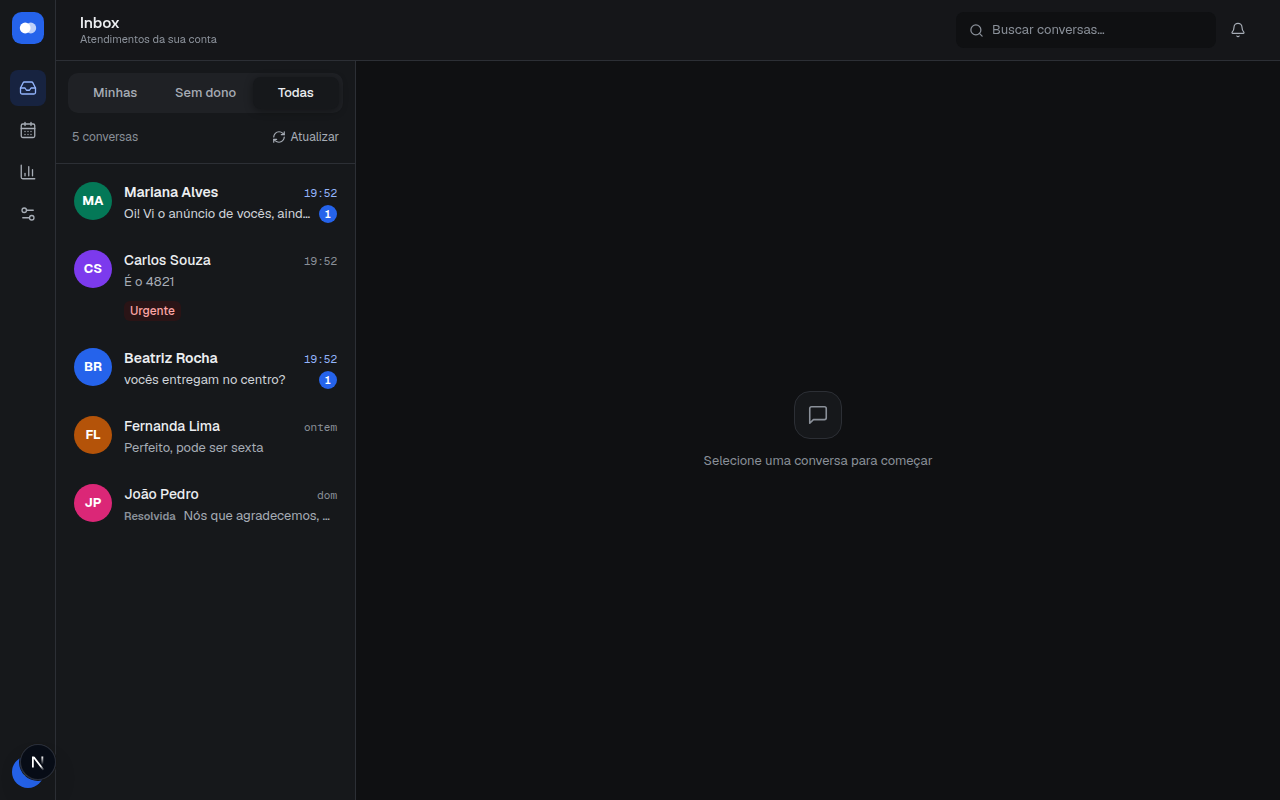
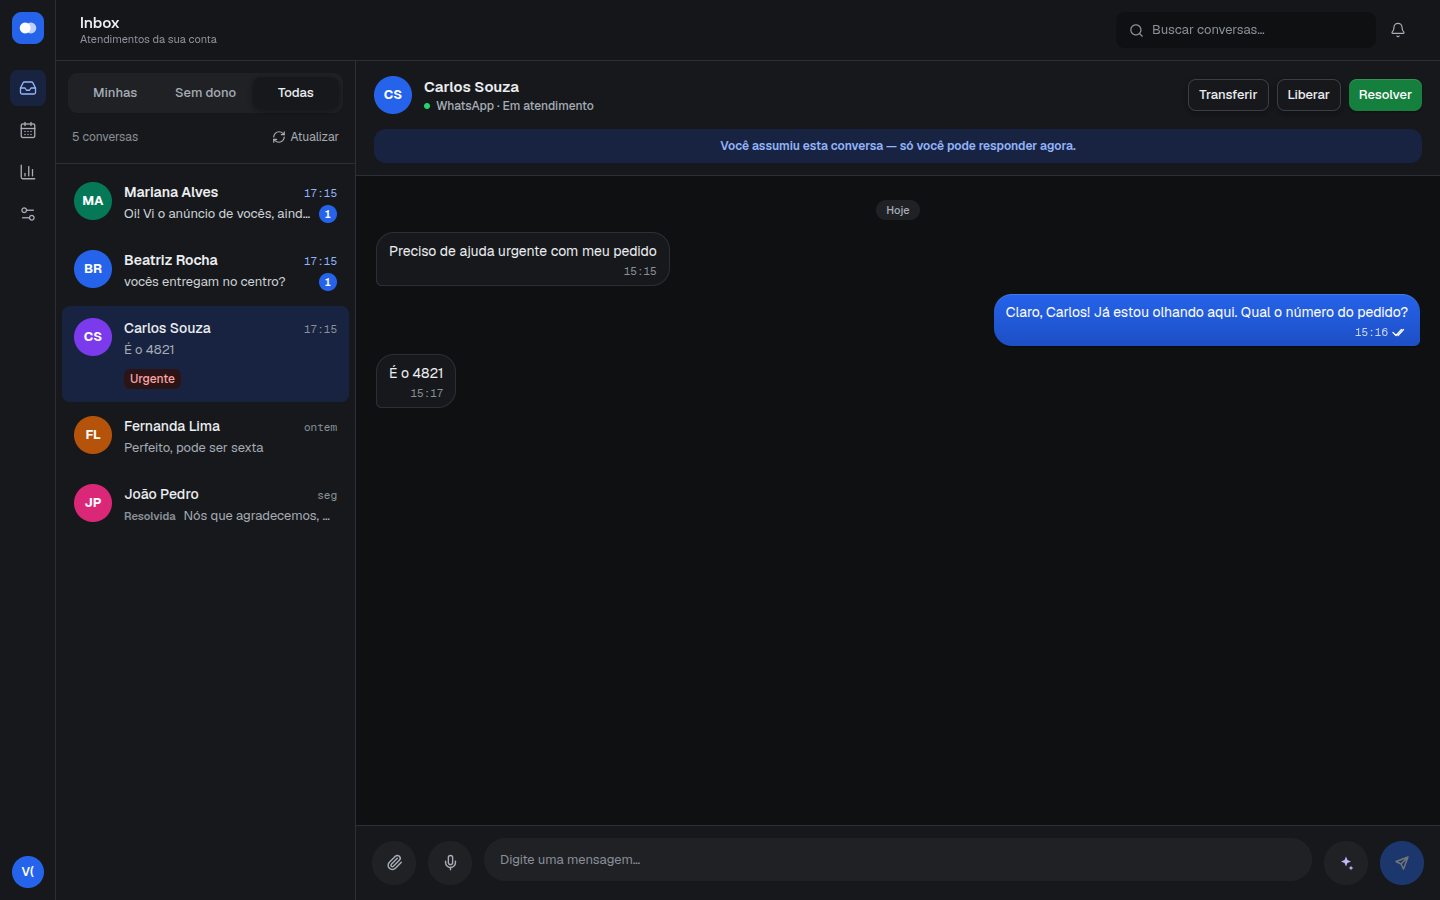
docs - readme para portfolio

diff --git a/README.md b/README.md
@@ -1,166 +1,175 @@
 # Otto
 
-Inbox de WhatsApp com múltiplos atendentes, agente de IA e transferência para humano.
-O projeto inclui um exemplo fictício de salão de festas: agenda por data, pré-reserva,
-confirmação pela equipe e galeria do espaço.
+Inbox de WhatsApp multiatendente com agente de IA e roteiro sem LLM, aplicado a salões de festas.
 
-O agente consulta conhecimento e agenda; o roteiro determinístico atende sem LLM.
-Ambos usam a mesma ingestão, fila de atendimento e persistência. O copilot sugere uma
-resposta para o atendente e nunca envia sozinho.
+[![Validation](https://github.com/thisdev-davi/otto-salao-de-festas/actions/workflows/ci.yml/badge.svg)](https://github.com/thisdev-davi/otto-salao-de-festas/actions/workflows/ci.yml)
+![Cobertura do backend](https://img.shields.io/badge/cobertura-80%25-brightgreen)
+![Python](https://img.shields.io/badge/python-3.12-blue)
+![Licença](https://img.shields.io/badge/licen%C3%A7a-MIT-lightgrey)
 
-## Executar
+Pequenos negócios atendem pelo WhatsApp com duas ou três pessoas no mesmo número. Nesse cenário, conversas se perdem, dois atendentes respondem o mesmo cliente e o preço que o bot passa não bate com a agenda. O Otto põe a equipe numa inbox compartilhada e coloca na frente um atendimento automático que **nunca inventa preço**: valor e disponibilidade saem de uma agenda transacional, o bot só **segura** uma data, e quem confirma a reserva é sempre um humano.
 
-Precisa de Python 3.12, Node.js 22, Docker Compose e `uv` ou `pip`.
-
-```sh
-python3 -m venv .venv
-. .venv/bin/activate
-pip install --require-hashes -r requirements-dev.lock
-cp .env.example .env
-cp frontend/.env.local.example frontend/.env.local
-# Preencha SECRET_KEY e EVOLUTION_API_KEY com segredos próprios.
-cd frontend
-npm ci
-cd ..
-./dev.sh
-```
-
-Abra [localhost:3002](http://localhost:3002). A API usa a porta 8001,
-PostgreSQL 5437 e Redis 6382. `dev.sh` aplica as migrations e inicia API, worker e frontend.
-Os exemplos de ambiente usam essas mesmas portas.
-
-Para criar uma conta, no ambiente virtual:
-
-```sh
-python scripts/criar_conta.py --nome "Salão Exemplo" --email admin@example.com
-```
-
-O script gera a senha. Para explorar a interface com dados fictícios, sem parear WhatsApp:
-
-```sh
-python seed_test_account.py
-```
-
-Esse seed **recria a conta Otto Teste**, com login `teste@otto.com` e senha `teste1234`.
-Use somente no seu banco local de testes; ele deixa o bot desligado. As conversas
-preenchidas permitem explorar a interface, mas não simulam transporte WhatsApp.
-
-### WhatsApp e IA
-
-O WhatsApp real exige Evolution externo, pareamento e webhook público alcançável pela
-Evolution. Configure `EVOLUTION_URL`, `EVOLUTION_API_KEY` e `WEBHOOK_BASE_URL`.
-Para executar Evolution por Compose, informe uma imagem que você possa obter/construir:
-
-```sh
-EVOLUTION_IMAGE=seu-registry/evolution:sua-versao WITH_EVOLUTION=1 ./dev.sh
-```
-
-A antiga imagem `evolution-api-lid:2.2.3` era local e não é uma dependência baixável
-presumida. A interface pode ser explorada sem ela; envio e recebimento reais precisam
-do serviço configurado.
-
-`LLM_PROVIDER=stub` permite testar o contrato de triagem sem chamadas pagas. O stub
-não substitui o transporte WhatsApp nem demonstra a qualidade semântica de um modelo.
-Agente, embeddings e transcrição usam as chaves e provedores configurados na conta.
+O atendimento automático tem dois "cérebros" que você troca no painel. O **agente de IA** conversa livremente, com persona, RAG e memória do cliente. O **roteiro** é determinístico, segue um fluxo desenhado em JSON e tem custo zero por conversa. Os dois entregam o mesmo contrato de decisão e passam pelo mesmo código de envio, encaminhamento e persistência.
 
 ![Inbox do Otto com dados fictícios](docs/images/inbox.png)
 
 ## Como funciona
 
+| Etapa | O que acontece | Onde |
+|---|---|---|
+| 1. Entrada | O webhook do WhatsApp chega com um segredo **por conexão** na URL; é ele que decide o tenant, nunca o corpo | `api/webhooks.py`, `services/channels.py` |
+| 2. Ingestão | A mensagem é gravada de forma idempotente e sai do request para o Celery | `services/ingestion.py`, `tasks/` |
+| 3. Decisão | Agente de IA **ou** roteiro, conforme o modo do tenant, devolvendo a mesma estrutura | `ai/llm.py`, `flow/engine.py` |
+| 4. Agenda | Preço e disponibilidade vêm de `salao_agenda.resolver`, a única fonte de verdade | `services/salao_agenda.py` |
+| 5. Ação | O bot pode segurar uma data por 48 h (pré-reserva atômica) ou mandar a galeria | `services/salao_acoes.py` |
+| 6. Equipe | Handoff para a fila, captura por um atendente, aviso em tempo real por WebSocket | `services/assignment.py`, `api/ws.py` |
+| 7. Confirmação | Um humano confirma a reserva e, se quiser, avisa o cliente pelo WhatsApp | `services/salao_aviso.py` |
+
 ```text
-WhatsApp → adapter de canal → FastAPI → PostgreSQL
-                                ↓
+WhatsApp → adapter de canal → FastAPI → PostgreSQL ← Next.js (API + WebSocket)
+                                 ↓
                           Redis / Celery
-                                ↓
-                     fluxo ou agente de IA
-                                ↓
-                    ações de agenda / handoff
-                                ↓
-                      adapter → WhatsApp
-
-Next.js ← WebSocket / API ← PostgreSQL + mídia local ou S3 privado
+                                 ↓
+                 roteiro determinístico  |  agente de IA
+                                 ↓
+                 agenda (preço/data) · pré-reserva · handoff
+                                 ↓
+                         adapter → WhatsApp
 ```
 
-- Ingestão idempotente: reentregas não criam outra mensagem.
-- Captura, encaminhamento e reserva disputados no banco: duas requisições concorrentes
-  não ganham a mesma conversa ou data.
-- Preço e disponibilidade vêm da agenda transacional. O agente cria pré-reserva;
-  a confirmação é humana.
-- Dados coletados se acumulam e a persona define a condução. O bot continua ajudando
-  após encaminhar, até alguém assumir, respeitando os limites de uso.
-- RAG usa PostgreSQL/pgvector; falha de embedding permite busca textual. Fontes e
-  limites de relevância não garantem que uma resposta do modelo esteja correta.
-- Arquivos são servidos após autorização da aplicação. O bucket S3 permanece privado;
-  arquivos locais existentes continuam legíveis durante a migração.
+<table>
+  <tr>
+    <td><img src="docs/images/agenda.png" alt="Agenda com preço por data e reservas"></td>
+    <td><img src="docs/images/simulador.png" alt="Simulador do roteiro consultando a agenda real"></td>
+  </tr>
+  <tr>
+    <td align="center">Agenda: preço por data, bloqueios e reservas</td>
+    <td align="center">Simulador do roteiro: preço lido da agenda real, sem escrever nada</td>
+  </tr>
+</table>
 
-## Auditoria por conta
+## Decisões de engenharia
 
-Administradores acessam **Configurações → Auditoria**, com filtros, paginação e CSV.
-O contrato e os limites operacionais estão em [Auditoria](docs/AUDITORIA.md).
-A trilha registra ator, ação, recurso, resultado, motivo e correlação; alterações no
-banco e seu registro são atômicos. Intenção e resultado dos envios externos são
-separados: um timeout pode deixar resultado incerto, sem reenvio automático.
+As regras abaixo estão no [`CLAUDE.md`](CLAUDE.md) como invariantes do projeto, cada uma com o bug que ela previne.
 
-O registro não copia conversas, prompts ou segredos. IPs são mascarados; a retenção
-é de 180 dias, com limpeza coordenada enquanto a API estiver ativa e na inicialização.
-Esse prazo vale para a auditoria, não para conversas e anexos. O produto não permite
-editar ou apagar eventos; administradores diretos do banco continuam tendo poder
-sobre seus dados. Auditoria auxilia a rastreabilidade, sem certificar conformidade
-com a LGPD. Falhas de registro de leitura são sinalizadas no log técnico; alterações
-no banco falham se não puderem registrar auditoria.
+- **Concorrência resolvida no banco, não em Python.** Capturar uma conversa é um `UPDATE ... WHERE assigned_user_id IS NULL`. Segurar uma data é um `INSERT ... ON CONFLICT DO NOTHING` contra um índice único **parcial** (`status IN ('pre_reservada','confirmada')`), o que libera a data de reservas canceladas sem apagar o histórico. Os dois têm teste de corrida com `asyncio.gather`.
+- **O roteiro avança por transição disputada.** Não existe debounce: cada mensagem dispara um turno. O nó atual só avança com `UPDATE ... WHERE turno = :lido`, e quem perde a corrida não envia nada. Assim o cliente nunca recebe o menu duas vezes.
+- **Uma implementação só da disponibilidade.** O front lê `motivo`/`livre` prontos do backend e nunca deduz "livre" a partir do preço. Uma segunda implementação da regra, quando diverge, aparece como preço errado dito ao cliente.
+- **Adapter de canal isolado.** O código da Evolution API (WhatsApp não oficial, sujeito a ban) mora só em `channels/whatsapp.py`. Trocar de provider é trocar uma classe na factory.
+- **Multi-tenant por linha, com defesa em profundidade.** `tenant_id` entra em toda query, e o tenant de um evento externo vem de um segredo comparado com `hmac.compare_digest`.
+- **Mídia não confiável.** O `Content-Type` servido passa por uma allow-list, a URL de mídia é assinada e de curta duração (sem JWT na query), e o download de avatar só aceita HTTPS para IP público, como proteção contra SSRF.
+- **Sem agendador.** Pré-reserva vencida e conversa inativa são resolvidas de forma preguiçosa, na leitura. O projeto não tem `celery beat` de propósito.
+- **Auditoria transacional.** Toda alteração em tabela com `tenant_id` registra ator, ação e resultado por trigger, na mesma transação, sem copiar conversa nem segredo.
 
-## Conteúdo e operação
+## Avaliação do agente
 
-Persona, conhecimento e roteiro de exemplo vivem em `conteudo/`.
+Teste de unidade não prova que um LLM respeita a agenda. Para isso existe `evals/`: um conjunto de conversas fixas, rodado contra um modelo real e conferido por checagens determinísticas. As checagens cobrem quatro garantias:
+
+- valor citado sempre presente na agenda;
+- nenhuma confirmação de reserva;
+- pré-reserva só para data livre;
+- encaminhamento quando o cliente pede uma pessoa.
+
+Os cenários incluem prompt injection (pedido de "desconto aprovado pelo gerente" e mensagem que finge ser do sistema).
 
 ```sh
-python scripts/sincronizar_conteudo.py --check
-python scripts/sincronizar_conteudo.py --conta "Salão Exemplo" --dry-run
-python scripts/sincronizar_conteudo.py --conta "Salão Exemplo"
-scripts/otto.sh status
+python -m evals.rodar --provider anthropic --vezes 3   # gera evals/RESULTADO.md
 ```
 
-`scripts/otto.sh restart` **descarta a fila pendente** por convenção de desenvolvimento.
-Não use esse comando como estratégia de atualização em produção. No deploy, migrations
-são uma etapa explícita e workers devem encerrar com tratamento das tarefas pendentes.
+O prompt avaliado é o de produção. A persona e o conhecimento vêm de `conteudo/`, e o bloco de agenda sai do próprio `salao_contexto.bloco_agenda`.
 
-## Testes
+## Estrutura do repositório
 
-A suíte exige banco e Redis exclusivos, `ENV=test` e impede HTTP externo real.
-O passo a passo está em [Validação](docs/VALIDACAO.md).
+```text
+otto-salao-de-festas/
+├── app/
+│   ├── api/         rotas FastAPI finas, delegando aos services
+│   ├── services/    regras de negócio: captura, ingestão, agenda, bot, auditoria
+│   ├── flow/        motor do roteiro determinístico, validador e simulador
+│   ├── ai/          cliente LLM multi-provider, RAG (pgvector), transcrição
+│   ├── channels/    adapter do WhatsApp (único lugar que conhece a Evolution)
+│   ├── tasks/       workers Celery
+│   └── models/      SQLAlchemy
+├── alembic/         migrations (inclui triggers de auditoria e índices parciais)
+├── conteudo/        persona, base de conhecimento e roteiro do exemplo, versionados
+├── evals/           avaliação offline do agente
+├── frontend/        Next.js: inbox, agenda, fluxo, relatórios, configurações
+├── tests/           ~630 testes de backend com PostgreSQL e Redis reais
+└── docs/            produto, guias, deploy, validação e auditoria
+```
+
+## Tecnologias
+
+| Camada | Tecnologia |
+|---|---|
+| Backend | Python 3.12, FastAPI e SQLAlchemy async, ponta a ponta |
+| Workers | Celery e Redis (fila e pub/sub do tempo real) |
+| Banco | PostgreSQL 16 com pgvector, migrations com Alembic |
+| Frontend | Next.js 15, React 19, TypeScript estrito, Tailwind e Radix |
+| IA | Anthropic, Gemini e provedores compatíveis com OpenAI, além de embeddings e transcrição de áudio |
+| Canal | WhatsApp via Evolution API |
+| Qualidade | pytest com cobertura, ruff, ESLint, `node:test`, checagem de contraste WCAG e gitleaks |
+| CI | GitHub Actions: lint, migrations em banco vazio, testes, build do front e varredura de segredos |
+
+## Documentação
+
+| Documento | Conteúdo |
+|---|---|
+| [CLAUDE.md](CLAUDE.md) | invariantes de arquitetura e convenções, com o porquê de cada uma |
+| [Segurança](SEGURANCA.md) | laudo de segurança, correções e riscos aceitos |
+| [Projeto](docs/produto/OTTO_PROJETO.md) | visão de produto, escopo e roadmap |
+| [Plataforma](docs/produto/PLATAFORMA.md) | como derivar um sistema de outro nicho a partir da base |
+| [Produto e venda](docs/produto/PRODUTO-E-VENDA.md) | roteiro sem IA × agente com IA: o que cada um faz e quanto custa |
+| [Guia do fluxo](docs/guias/GUIA-FLUXO-SALAO.md) | como ler, alterar e publicar o roteiro |
+| [Guia da persona](docs/guias/GUIA-PERSONA-SALAO.md) e [Guia de conteúdo](docs/guias/GUIA-CONTEUDO-AGENTE.md) | como escrever persona e conhecimento para o agente |
+| [Auditoria](docs/AUDITORIA.md) | contrato da trilha de auditoria por conta |
+| [Validação](docs/VALIDACAO.md) | como rodar a suíte isolada |
+| [Deploy](docs/DEPLOY.md) | roteiro para Render, Neon e S3 (preparado, não executado) |
+
+## Rodar localmente
+
+Requisitos: Python 3.12, Node.js 22, Docker Compose e `uv` (ou `pip`).
 
 ```sh
-pytest -q
-ruff check .
-ruff format --check .
-cd frontend
-npm run check
-npm run build
+python -m venv .venv && . .venv/bin/activate
+pip install --require-hashes -r requirements-dev.lock
+cp .env.example .env                       # preencha SECRET_KEY e EVOLUTION_API_KEY
+cp frontend/.env.local.example frontend/.env.local
+(cd frontend && npm ci)
+./dev.sh                                   # Postgres, Redis, migrations, API, worker e front
 ```
 
-A CI instala dependências pelo lock, aplica migrations em PostgreSQL/pgvector
-isolado e verifica backend, tipos, tokens, contraste e build. Resultados locais
-medidos ficam em [Validação](docs/VALIDACAO.md), sem confundir testes automatizados
-com ensaio de WhatsApp ou deploy real.
+Abra [localhost:3002](http://localhost:3002). Para explorar a interface com dados fictícios, sem parear um WhatsApp, rode `python seed_test_account.py`. O seed **recria** a conta "Otto Teste" (login `teste@otto.com`, senha `teste1234`), então use só em banco local. Com `LLM_PROVIDER=stub`, o agente roda sem chamadas pagas.
 
-## Deploy e estado
+O WhatsApp real exige uma Evolution API e um webhook público. Veja `EVOLUTION_*` e `WEBHOOK_BASE_URL` no `.env.example`.
 
-A configuração em `render.yaml` prepara frontend, API, worker e Redis no Render,
-com banco Neon e armazenamento compatível com S3. Evolution é externo. Não há VPS
-presumida e a stack completa não é apresentada como gratuita.
+### Operação
 
-[Deploy](docs/DEPLOY.md) descreve segredos, TLS, conexões direta/aplicação, mídia e
-verificação de saúde. A configuração foi preparada para implantação futura;
-nenhum deploy remoto foi executado nesta consolidação.
+```sh
+python scripts/criar_conta.py --nome "Salão Exemplo" --email admin@example.com   # gera a senha
+python scripts/sincronizar_conteudo.py --conta "Salão Exemplo" --dry-run          # publica conteudo/
+scripts/otto.sh restart
+```
 
-[Segurança](SEGURANCA.md) distingue o laudo
-histórico das verificações atuais. Avaliação pós-atendimento permanece em
-[Melhorias](docs/MELHORIAS.md).
+`scripts/otto.sh restart` **descarta a fila pendente** do Celery: é uma convenção de desenvolvimento, para o worker não reprocessar tarefas de um código que já mudou. Não use isso como estratégia de atualização em produção.
+
+### Testes
+
+```sh
+docker compose -p otto-validation -f docker-compose.test.yml up -d --wait
+pytest --cov=app        # variáveis de ambiente em docs/VALIDACAO.md
+ruff check . && ruff format --check .
+cd frontend && npm run check && npm run build
+```
+
+## Roadmap
+
+- **Avaliação pós-atendimento**: pesquisa de satisfação ao encerrar, com nota nos relatórios ([Melhorias](docs/MELHORIAS.md)).
+- **Leitura de imagem**: hoje a foto recebida é exibida para a equipe e o bot avisa que não lê imagem.
+- **Sessão em cookie `httpOnly`** e ticket de uso único no WebSocket (riscos aceitos em [Segurança](SEGURANCA.md)).
 
 ## Desenvolvimento e licença
 
-O desenvolvimento usa assistência de Claude Code/Codex. Contratos, decisões,
-revisão do código, testes e verificações de interface fazem parte do processo;
-a documentação registra o que foi medido e as limitações da validação.
+Desenvolvido com assistência de IA. As decisões de arquitetura, a revisão do código e os testes são meus; o [`CLAUDE.md`](CLAUDE.md) é o guia de engenharia que orienta esse trabalho.
 
-MIT para o material próprio ou autorizado, com avisos de terceiros preservados.
+[MIT](LICENSE). A conta, as conversas e o "Salão Exemplo" usados nas imagens são fictícios.

diff --git a/docs/VALIDACAO.md b/docs/VALIDACAO.md
@@ -5,7 +5,9 @@ Os testes criam e removem registros e limpam contadores no Redis. O início da s
 recusa ambiente diferente de `test` ou nome de banco sem `test`.
 
 ```sh
-docker compose -f docker-compose.test.yml up -d --wait
+# `-p` é obrigatório: o COMPOSE_PROJECT_NAME do .env venceria o `name:` do arquivo
+# e o compose de teste recriaria os containers de DEV com as portas de teste.
+docker compose -p otto-validation -f docker-compose.test.yml up -d --wait
 . .venv/bin/activate
 export ENV=test
 export DATABASE_URL=postgresql+asyncpg://otto:otto@localhost:55437/otto_test
